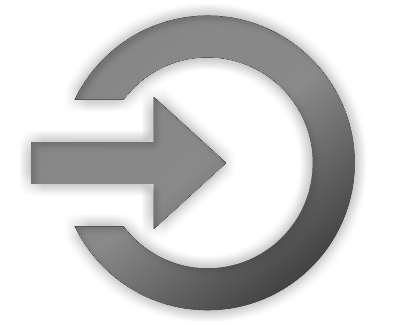
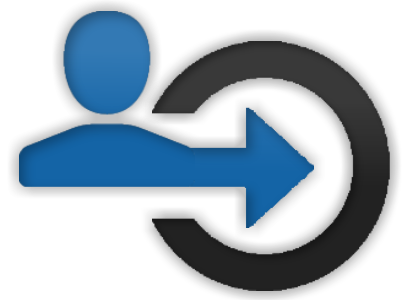
images and styling

diff --git a/src/client/app/views/adminregister.html b/src/client/app/views/adminregister.html
@@ -1,4 +1,4 @@
-<div class="nine columns">
+<!-- <div class="nine columns">
   <h1> Admin Register</h1>
   <form ng-submit="createMfc()">
     <h5>Username</h5>
@@ -20,3 +20,41 @@
      <li data-ng-show="token"><a ng-click="logout()">Logout</a></li>
   </ul>
 </div>
+ -->
+<div class="container">
+              <div class="row">
+                <div class="col-md-5 col-md-offset-1 mt-30 mb-100 {
+    margin-bottom: 100px;
+}">
+                    <div class="content">
+
+                        <h1 class="page-header">Store registration</h1>
+                        <p class="lead" data-ng-hide="token"><a href="/#/admin/login">Already have a store? <b>Click here to sign in.</b></a></p>
+                        <div class="panel panel-default">
+                            <div class="panel-body">
+                                  <form ng-submit="createMfc()">
+                                    <div class="input-group">
+                                  
+                                        <input type="text" ng-model="username" class="form-control" placeholder="Username"><br>
+                                        <input type="password" ng-model="password" class="form-control" placeholder="Password"><br>
+                                        <input type="text" ng-model="mfc.mfc_name" class="form-control" placeholder="Store Name"><br>
+                                        <input type="text" ng-model="mfc.location" class="form-control" placeholder="Location"><br>
+                                        <input type="text" ng-model="mfc.contact" class="form-control" placeholder="Contact Info"><br>
+                                        <input type="text" ng-model="mfc.logo_url" class="form-control" placeholder="Logo URL"><br>
+                                        <span class="input-group-btn">
+                                          <button class="btn btn-primary btn-circle" type="submit">Register</button>
+                                        </span>
+                                    </div>
+                                  </form>
+                            </div>
+                        </div>
+                    </div>
+                </div>
+     
+                <div class="col-md-5 col-md-offset-1 text-center mt-100">
+                    <div class="phone">
+                        <img class="img-responsive img-rounded mt-30" src="./img/registeradmin.png">
+                    </div>
+                </div>
+              </div>
+            </div>

diff --git a/src/client/css/main.css b/src/client/css/main.css
@@ -71,6 +71,9 @@ font-family: 'Arial', 'Helvetica'; font-size: 18px; line-height: 30px;}
 .mt-100 {
     margin-top: 100px;
 }
+.mt-30 {
+    margin-top: 50px;
+}
 .mb-100 {
     margin-bottom: 100px;
 }
@@ -111,14 +114,18 @@ font-family: 'Arial', 'Helvetica'; font-size: 18px; line-height: 30px;}
 }
 
 .input-group input {
-    border: 0;
+    border-style: solid;
+    border-width: 0px 0px 2px 0px;
     box-shadow: none;
     padding-right: 30px;
-    width: 80%;
+    margin-top: 10px;
+    width: 90%;
 }
 .input-group input:focus,
 .input-group input:active {
-    
+    border-width: 0px 0px 4px 0px;
+    box-shadow: 0px 0px 20px rgba(0, 0, 0, 0.2);
+    border-color: #367ab3;
 }
 .input-group-btn:last-child>.btn {
     z-index: 2;
@@ -129,7 +136,7 @@ font-family: 'Arial', 'Helvetica'; font-size: 18px; line-height: 30px;}
     position: relative;
     z-index: 2;
     float: left;
-    width: 80%;
+    width: 90%;
     margin-bottom: 0;
 }
 .panel-body {
@@ -209,4 +216,23 @@ font-family: 'Arial', 'Helvetica'; font-size: 18px; line-height: 30px;}
   padding: 20px;
   margin: 0px;
 }
+
+.navbar {
+    position: relative;
+    min-height: 50px;
+    margin-bottom: 0px;
+    border: 1px solid transparent;
+    background-color: #292929;
+}
+
+.navbar2 {
+    position: relative;
+    height: 50px;
+    margin-bottom: 0px;
+    border: 1px solid transparent;
+    background-color: #fff;
+}
+
+.navbar2-nav>li>a {padding-top: 10px;padding-bottom: 25px;
+font-family: 'Arial', 'Helvetica'; font-size: 18px; line-height: 30px;}
 

diff --git a/src/client/app/views/adminlogin.html b/src/client/app/views/adminlogin.html
@@ -29,7 +29,7 @@
                                         <input type="text" ng-model="username" class="form-control" placeholder="Your Name"><br>
                                         <input type="password" ng-model="password" class="form-control" placeholder="Password"><br>
                                         <span class="input-group-btn">
-                                          <button class="btn btn-circle" type="submit">Sign In</button>
+                                          <button class="btn btn-primary btn-circle" type="submit">Sign In</button>
                                         </span>
                                     </div>
                                   </form>

diff --git a/src/client/app/views/login.html b/src/client/app/views/login.html
@@ -56,7 +56,7 @@
      
                 <div class="col-md-5 col-md-offset-1 text-center mt-100">
                     <div class="phone">
-                        <img class="img-responsive img-rounded" src="./img/loginimg.png">
+                        <img class="img-responsive img-rounded" src="./img/adminLogin.png">
                     </div>
                 </div>
               </div>

diff --git a/src/client/app/views/admindashboard.html b/src/client/app/views/admindashboard.html
@@ -1,4 +1,5 @@
 <header class="header">
+
             <div class="container">
             <br>
             <br>
